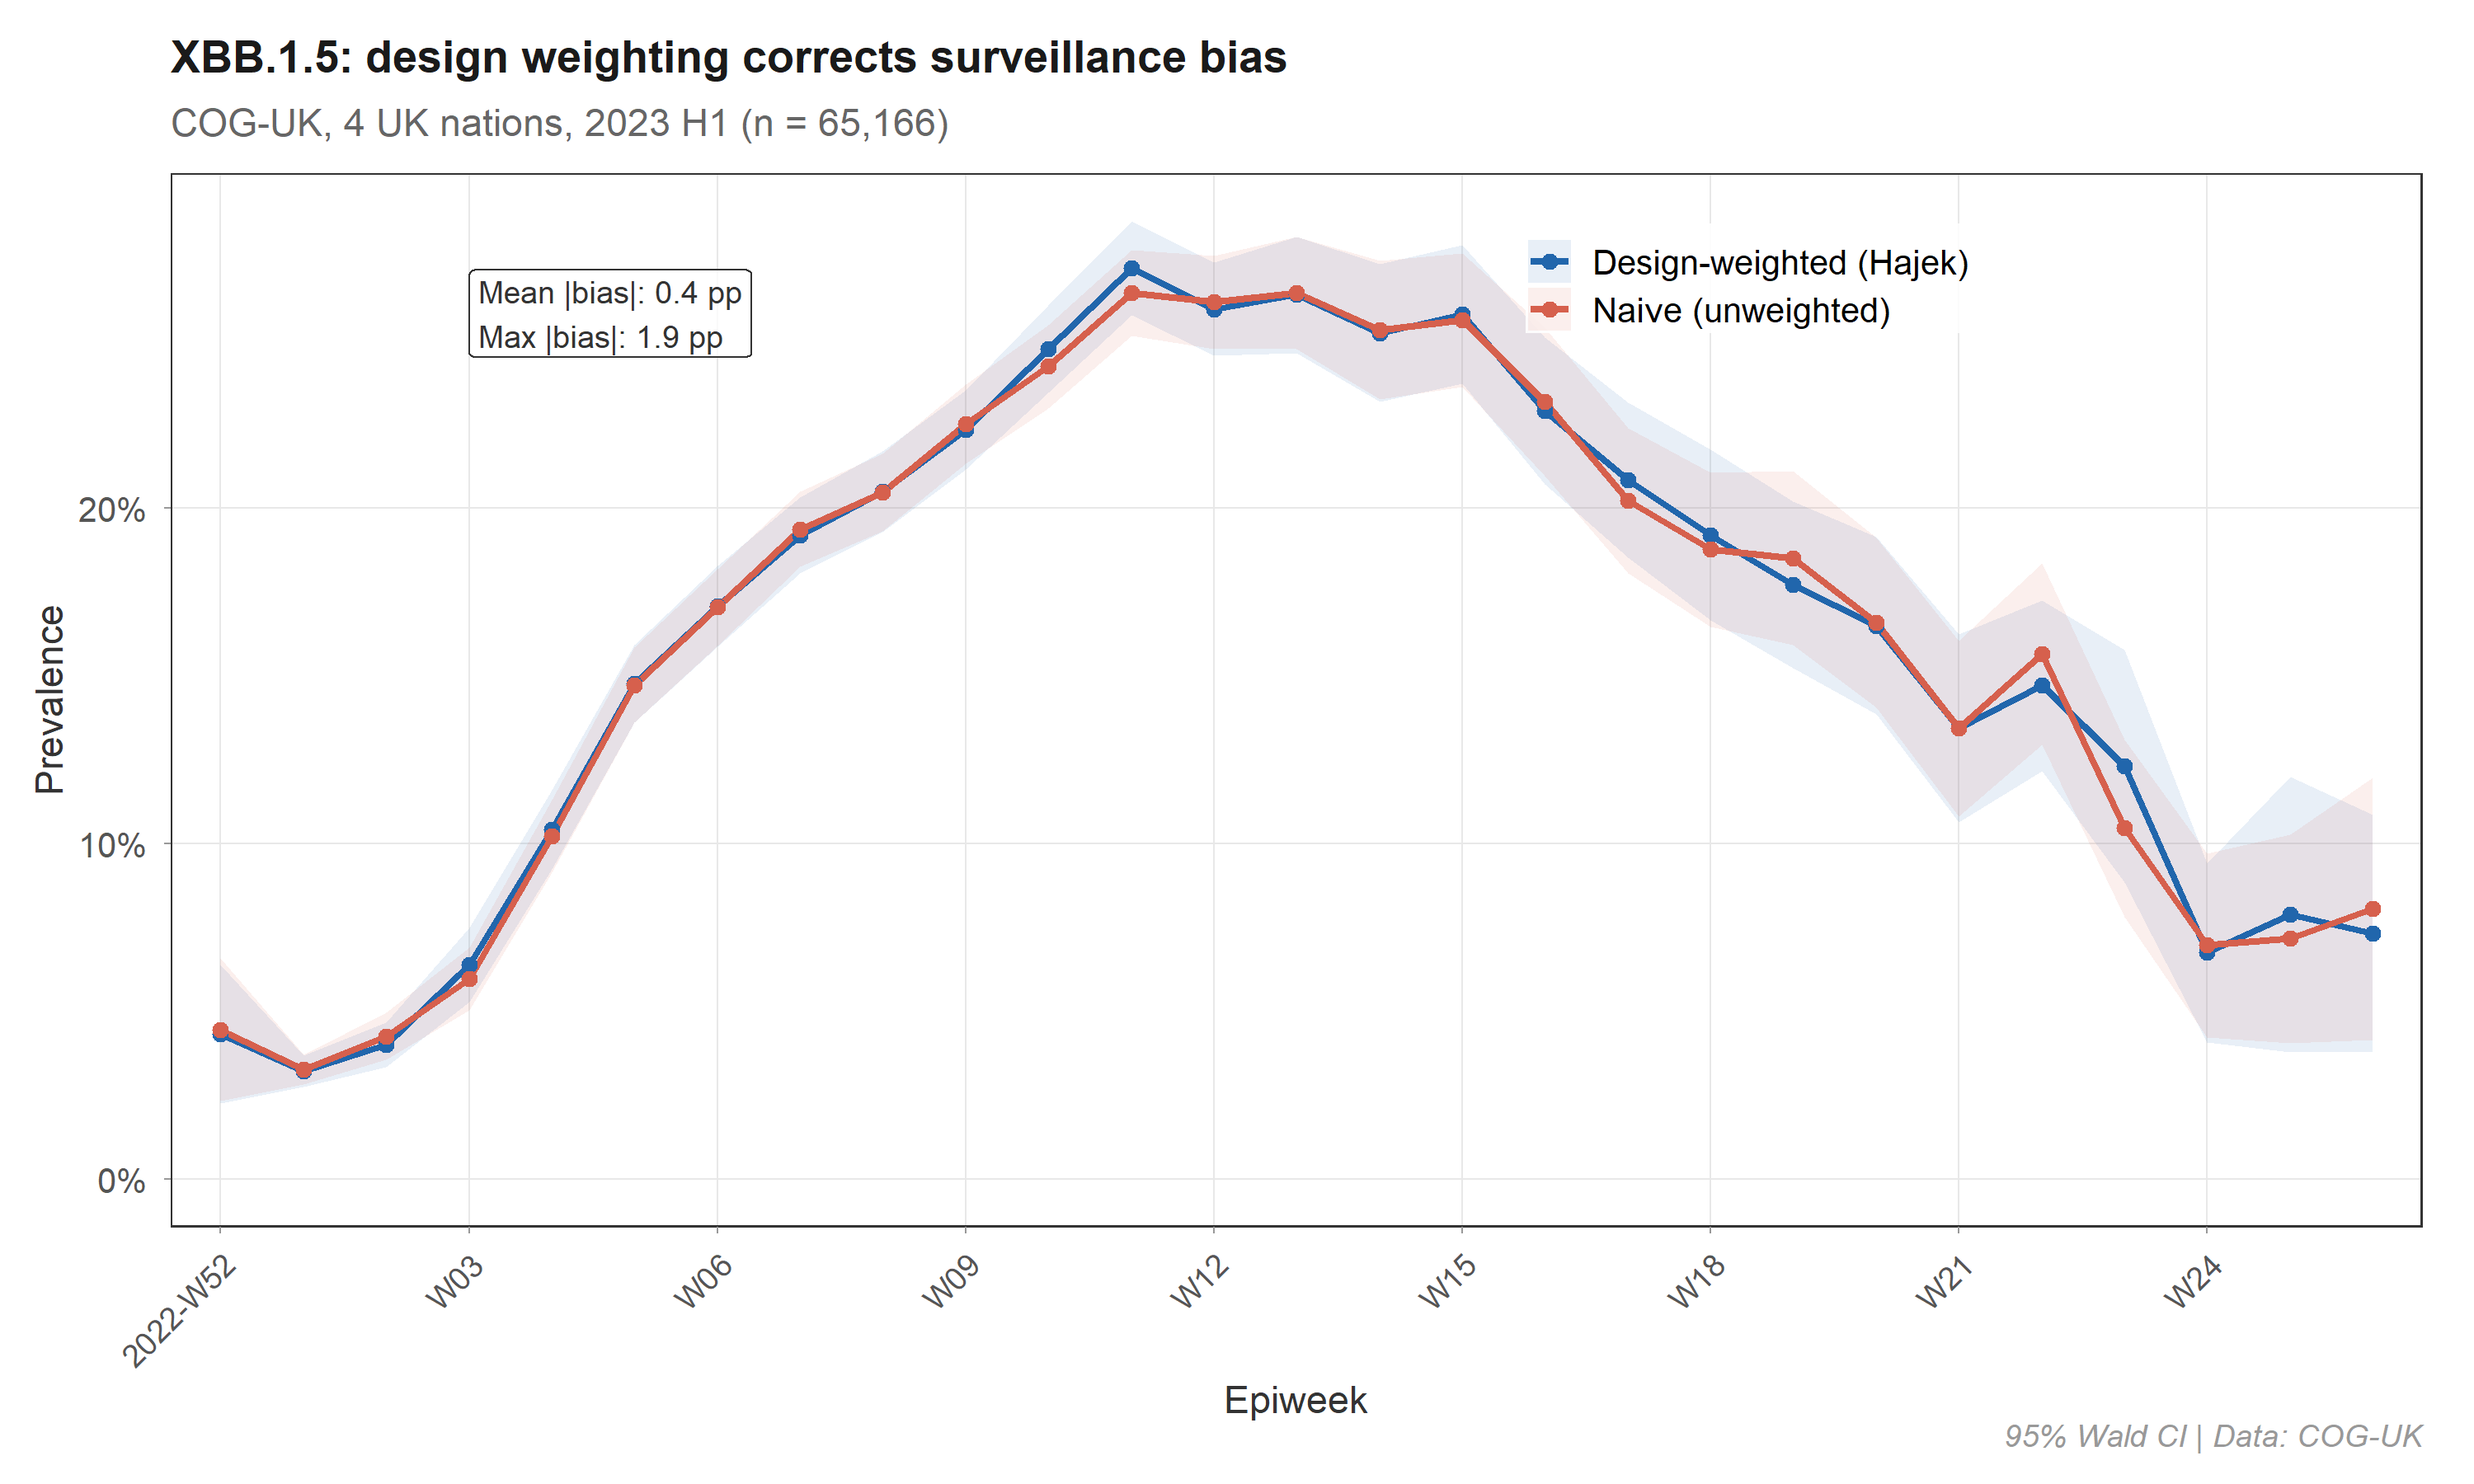
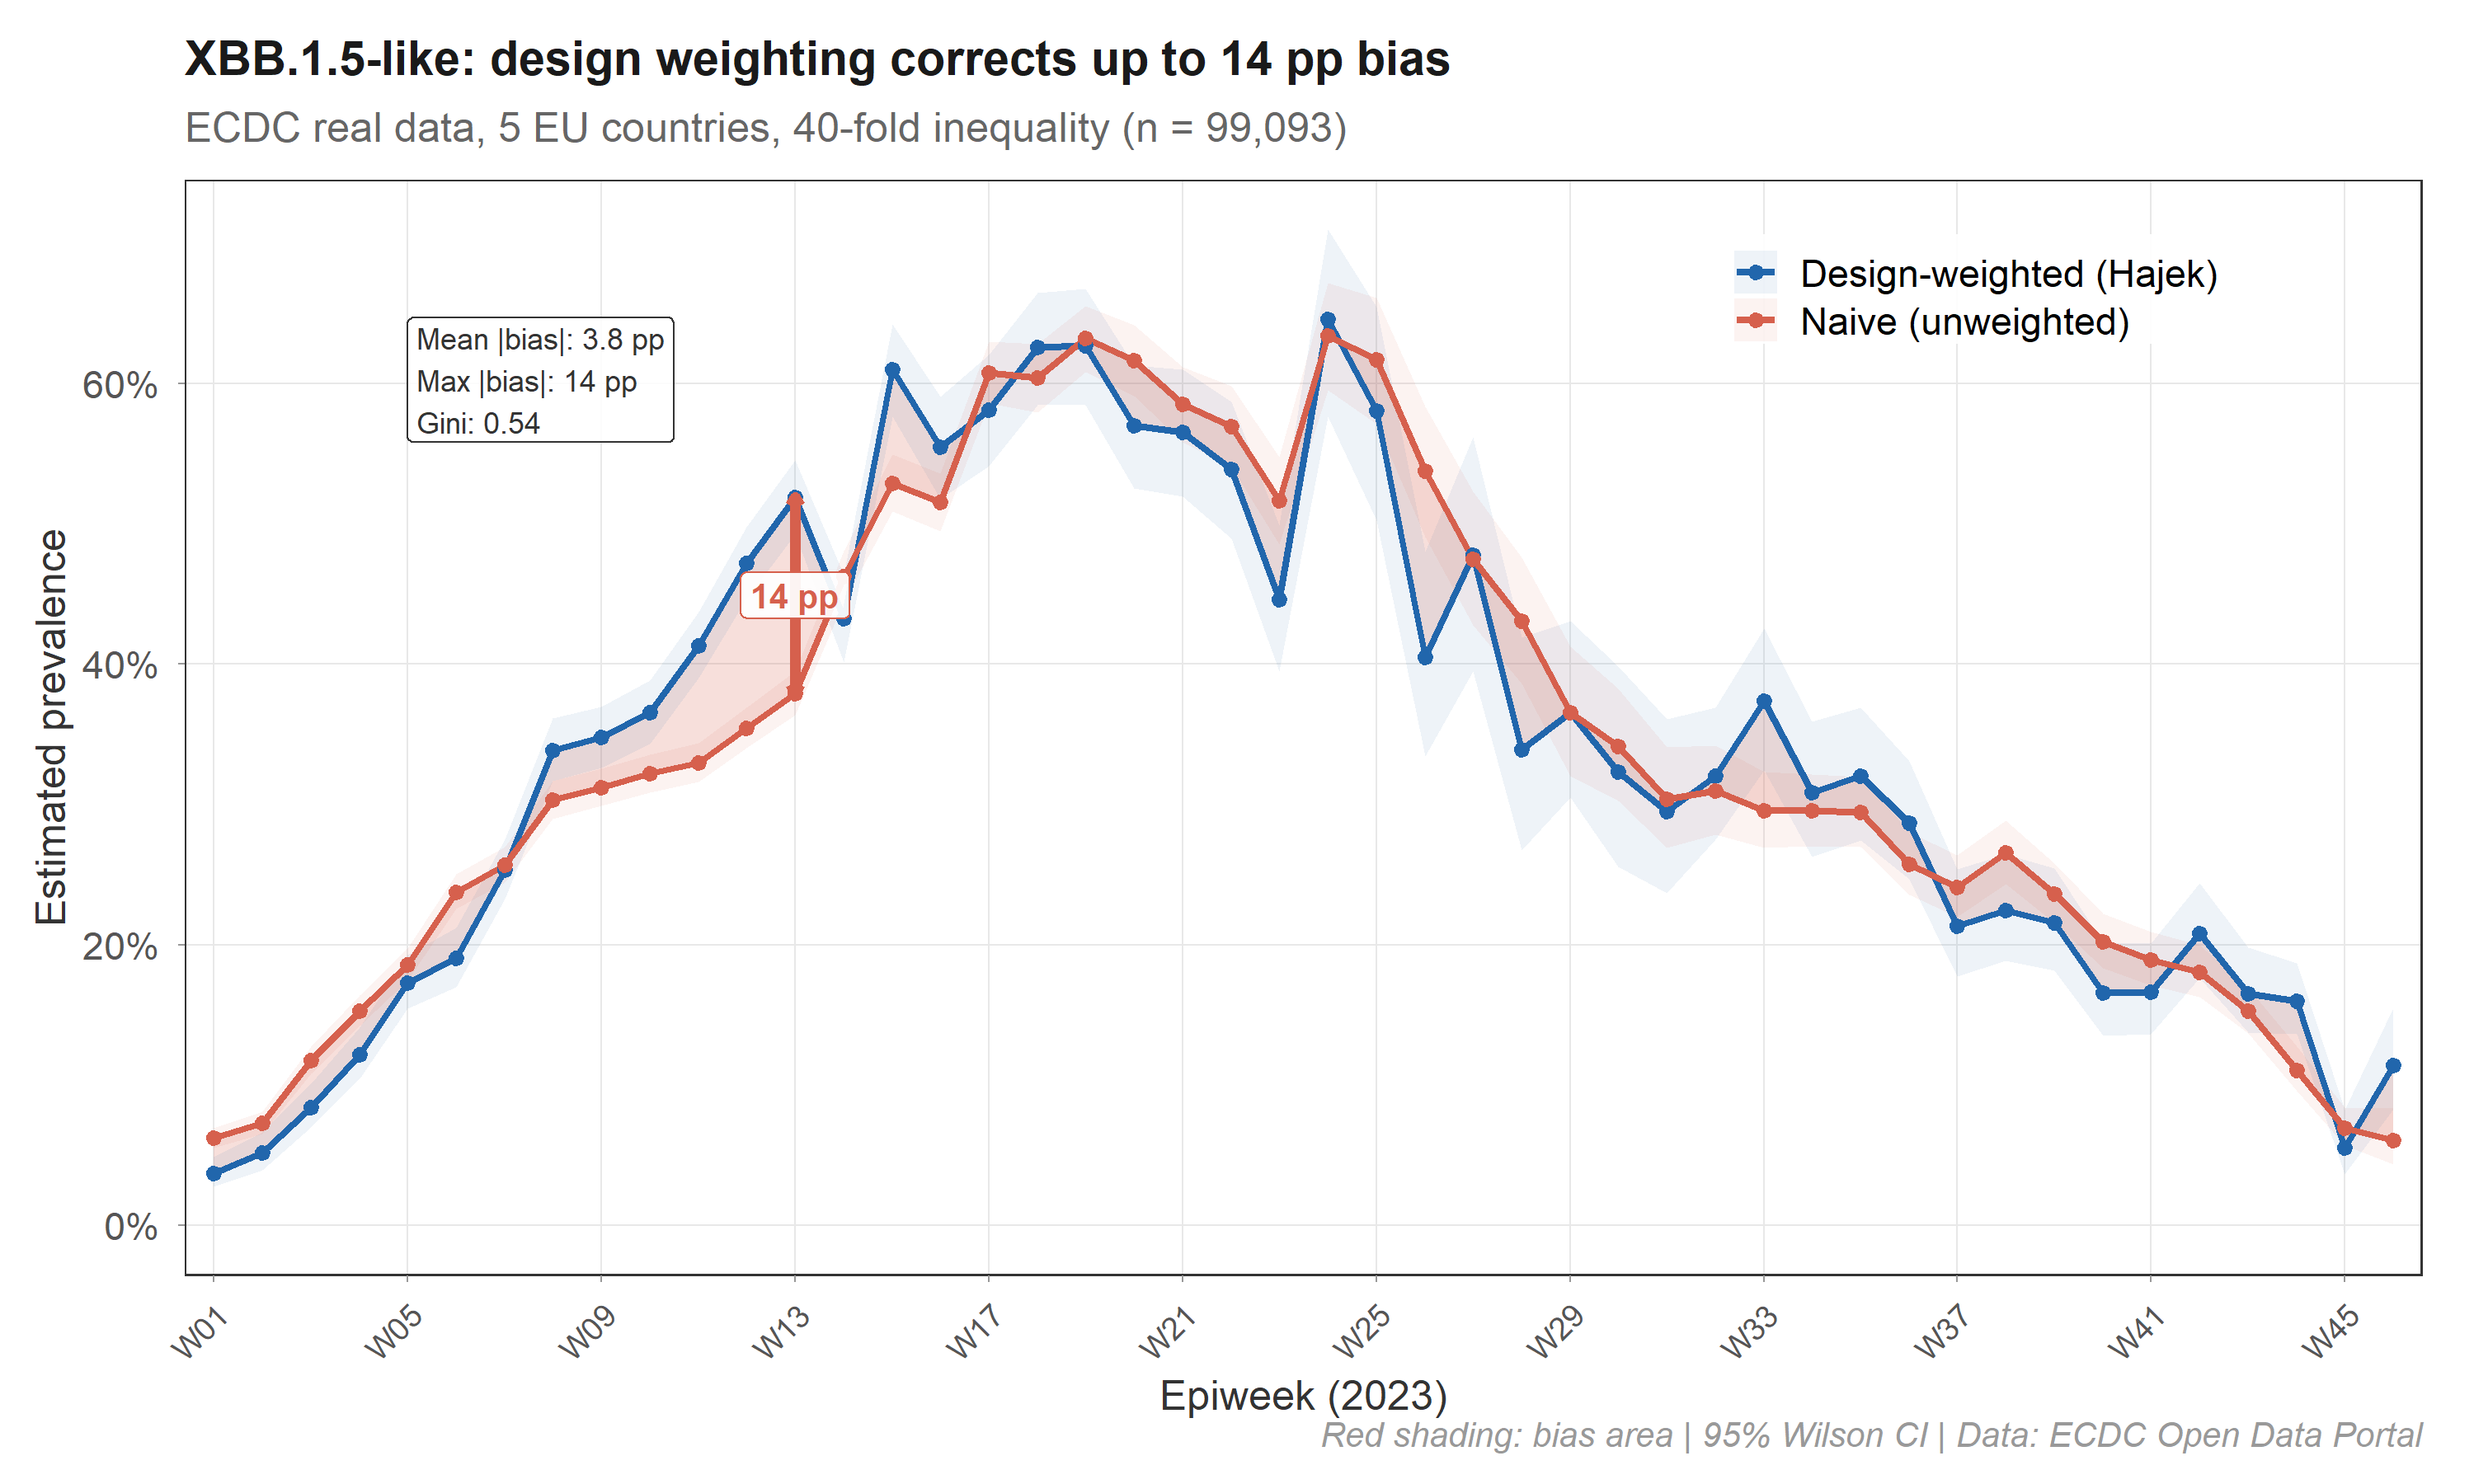
FIX fig2: ECDC data — 14pp max bias with shaded area + arrow
Was COG-UK (0.4pp, lines overlapping). Now ECDC 40x inequality:
mean bias 3.8pp, max 14pp, clearly visible red shaded bias area.

diff --git a/README.md b/README.md
@@ -70,13 +70,13 @@ Figures use **ECDC variant surveillance data** (5 EU countries, n = 99,093) and 
 > **Observation:** Romania sequences 0.3% of cases vs Denmark at 12% — a **40-fold ratio**. This level of inequality is the norm in global genomic surveillance, and it makes naive prevalence estimates systematically biased.
 
 ### Figure 2 · Design weighting corrects systematic bias
-*Data: COG-UK real sequences (n = 65,166)*
+*Data: ECDC real sequences (5 EU countries, n = 99,093)*
 
 <p align="center">
 <img src="man/figures/fig2_compare.png" width="85%" />
 </p>
 
-> **Result:** With UK's moderate inequality (Gini = 0.21), the mean absolute difference is 0.4 pp. In simulation with heterogeneous prevalence (Fig 6), naive bias reaches 3.2–8.7 pp while Hajek stays at 0.6–2.5 pp. The correction is most impactful when prevalence differs systematically across strata.
+> **Result:** With 40-fold sequencing inequality (Gini = 0.54), the naive estimate diverges from the design-weighted estimate by **up to 14 percentage points** (mean 3.8 pp). The red shaded area is the bias eliminated by design weighting. The bias is largest during the variant's peak — precisely when accurate estimates matter most.
 
 ### Figure 3 · Bias structure varies by country and time
 *Data: COG-UK real sequences (n = 65,166)*
